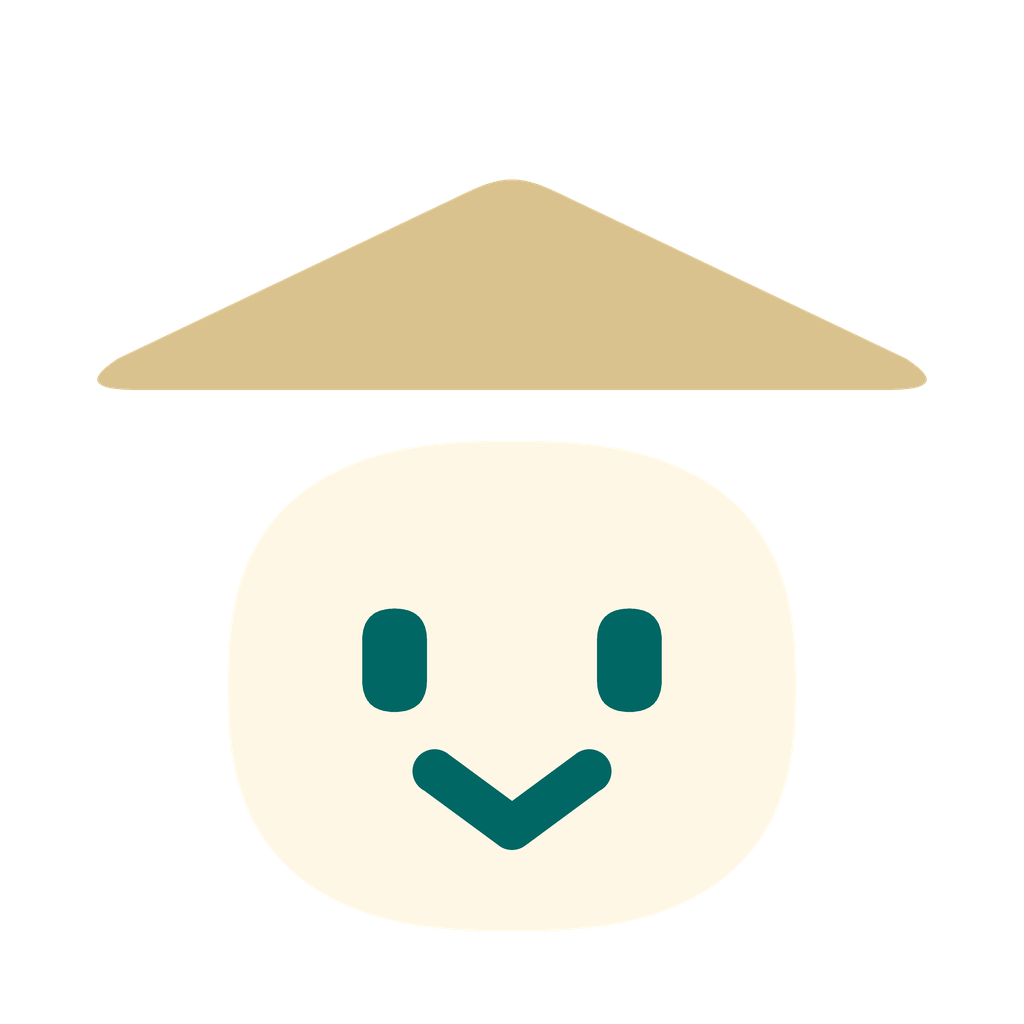
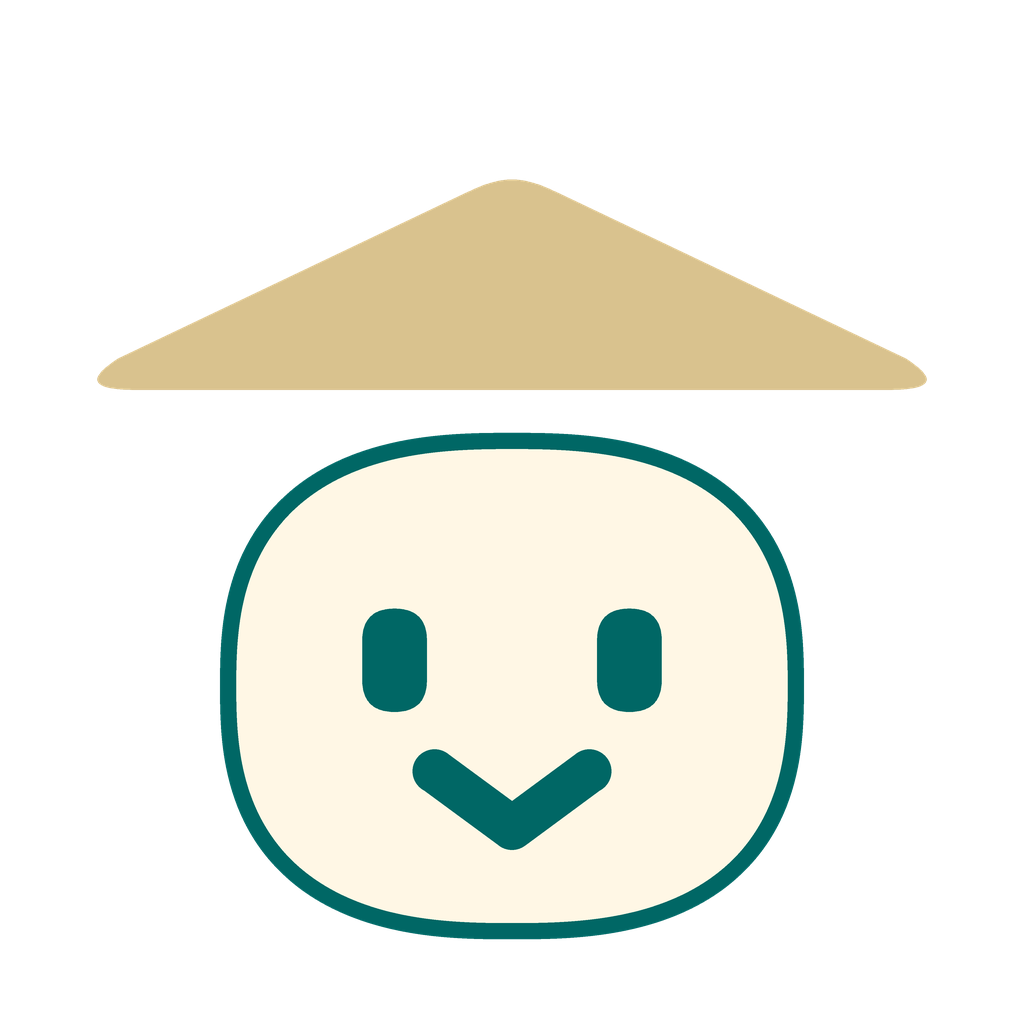
fix(branding): outline the cream face on light backgrounds
Cause: transparent cream face exports blend into white and the light feature-graphic background. Add a thin teal contour following the existing curved face only for those exports; preserve solid/adaptive launcher artwork, palette, hat and smile.

Regenerated the 90-file icon suite and publishing graphics/manifests. Visually checked the light-background mark; mask, alpha and export checks plus Android build/lint passed.

Changed region(s): [[0.1875, 0.4688, 0.8125, 0.9375], [0.3125, 0.4062, 0.6875, 0.4688]]

diff --git a/branding/minime/source/icon_art.py b/branding/minime/source/icon_art.py
@@ -67,8 +67,9 @@ def data(path):
     def num(v):return f'{v:.5f}'.rstrip('0').rstrip('.') or '0'
     return ' '.join(c[0]+' '.join(num(v) for v in c[1:]) for c in path)
 
-def svg_paths(mono=None):
+def svg_paths(mono=None,outline=False):
     g=geometry()
+    if outline:g[0]=(g[0][0],CREAM,TEAL,.75)
     if mono:
         holes=g[0][0]+g[2][0]+g[3][0]+smile_outline()
         return f'<path fill="{mono}" fill-rule="evenodd" d="{data(holes)}"/><path fill="{mono}" d="{data(g[1][0])}"/>'
@@ -78,7 +79,7 @@ def svg(background='rounded',mono=None,adaptive=False):
     viewport=108 if adaptive else 48
     content=''
     if background:content=f'<path fill="{TEAL}" d="{data(rounded(0,0,48,48,13) if background=="rounded" else rounded(0,0,48,48,0))}"/>'
-    content+=svg_paths(mono)
+    content+=svg_paths(mono,outline=not background and not adaptive)
     if adaptive:content=f'<g transform="translate(18 18) scale(1.5)">{content}</g>'
     return f'<svg xmlns="http://www.w3.org/2000/svg" width="{viewport}" height="{viewport}" viewBox="0 0 {viewport} {viewport}">{content}</svg>\n'
 
@@ -101,7 +102,9 @@ def render(size=512,background='rounded',mono=None,adaptive=False):
         for i,(path,fill,stroke,width) in enumerate(geometry()):draw_path(md,path,255 if i<2 else (0 if fill else None),0 if stroke else None,width,s,offset)
         ink=Image.new('RGBA',im.size,mono);im.alpha_composite(Image.composite(ink,Image.new('RGBA',im.size),mask))
     else:
-        for path,fill,stroke,width in geometry():draw_path(d,path,fill,stroke,width,s,offset)
+        g=geometry()
+        if not background and not adaptive:g[0]=(g[0][0],CREAM,TEAL,.75)
+        for path,fill,stroke,width in g:draw_path(d,path,fill,stroke,width,s,offset)
     return im.resize((size,size),Image.Resampling.LANCZOS)
 
 def vector(mono=False,adaptive=True):

diff --git a/tools/icon_art.py b/tools/icon_art.py
@@ -67,8 +67,9 @@ def data(path):
     def num(v):return f'{v:.5f}'.rstrip('0').rstrip('.') or '0'
     return ' '.join(c[0]+' '.join(num(v) for v in c[1:]) for c in path)
 
-def svg_paths(mono=None):
+def svg_paths(mono=None,outline=False):
     g=geometry()
+    if outline:g[0]=(g[0][0],CREAM,TEAL,.75)
     if mono:
         holes=g[0][0]+g[2][0]+g[3][0]+smile_outline()
         return f'<path fill="{mono}" fill-rule="evenodd" d="{data(holes)}"/><path fill="{mono}" d="{data(g[1][0])}"/>'
@@ -78,7 +79,7 @@ def svg(background='rounded',mono=None,adaptive=False):
     viewport=108 if adaptive else 48
     content=''
     if background:content=f'<path fill="{TEAL}" d="{data(rounded(0,0,48,48,13) if background=="rounded" else rounded(0,0,48,48,0))}"/>'
-    content+=svg_paths(mono)
+    content+=svg_paths(mono,outline=not background and not adaptive)
     if adaptive:content=f'<g transform="translate(18 18) scale(1.5)">{content}</g>'
     return f'<svg xmlns="http://www.w3.org/2000/svg" width="{viewport}" height="{viewport}" viewBox="0 0 {viewport} {viewport}">{content}</svg>\n'
 
@@ -101,7 +102,9 @@ def render(size=512,background='rounded',mono=None,adaptive=False):
         for i,(path,fill,stroke,width) in enumerate(geometry()):draw_path(md,path,255 if i<2 else (0 if fill else None),0 if stroke else None,width,s,offset)
         ink=Image.new('RGBA',im.size,mono);im.alpha_composite(Image.composite(ink,Image.new('RGBA',im.size),mask))
     else:
-        for path,fill,stroke,width in geometry():draw_path(d,path,fill,stroke,width,s,offset)
+        g=geometry()
+        if not background and not adaptive:g[0]=(g[0][0],CREAM,TEAL,.75)
+        for path,fill,stroke,width in g:draw_path(d,path,fill,stroke,width,s,offset)
     return im.resize((size,size),Image.Resampling.LANCZOS)
 
 def vector(mono=False,adaptive=True):

diff --git a/tools/build_store_materials.py b/tools/build_store_materials.py
@@ -23,7 +23,7 @@ for locale,tag in [('en-US','Your words. Your keyboard.'),('zh-TW','自己的話
  d.text((92,319),'中文 · English · 台語 · 日本語',font=font(24,cjk=True),fill=TEAL)
  svg=['<svg xmlns="http://www.w3.org/2000/svg" width="1024" height="500" viewBox="0 0 1024 500">',f'<rect width="1024" height="500" fill="{CREAM}"/>','<circle cx="1090" cy="50" r="190" fill="#d7e7df"/><circle cx="-10" cy="565" r="170" fill="#d7e7df"/>',f'<text x="88" y="190" font-family="Segoe UI" font-weight="700" font-size="76" fill="{TEAL}">MinIME</text>',f'<text x="92" y="265" font-family="Segoe UI,Microsoft JhengHei" font-size="30" fill="{INK}">{html.escape(tag)}</text>',f'<text x="92" y="347" font-family="Microsoft JhengHei" font-size="24" fill="{TEAL}">中文 · English · 台語 · 日本語</text>']
  mark=render_icon(310,None);im.paste(mark,(651,86),mark)
- svg.append('<g transform="translate(651 86) scale(6.4583333333)">'+svg_paths()+'</g>')
+ svg.append('<g transform="translate(651 86) scale(6.4583333333)">'+svg_paths(outline=True)+'</g>')
  im.save(G/('feature-'+locale+'.png'));(G/('feature-'+locale+'.svg')).write_text(''.join(svg)+'</svg>\n',encoding='utf-8')
 # Copy-ready listing fields, no Markdown headings or developer placeholders.
 source=(ROOT/'docs/play-publishing/STORE-LISTING.md').read_text(encoding='utf-8')

diff --git a/tools/build_icon_suite.py b/tools/build_icon_suite.py
@@ -116,7 +116,8 @@ README='''# MinIME icon suite
 
 Approved design: a Taiwan farmer's broad bamboo-leaf hat over a friendly face,
 inspired by 台. Deep teal #006765; warm cream #FFF7E5; bamboo leaf #D9C28E.
-The face has continuous curves and a rounded V smile. Artwork is original;
+The face has continuous curves and a rounded V smile. Transparent colour marks
+include a thin teal face contour for visibility on white and light surfaces. Artwork is original;
 no party, flag or third-party logo artwork is included.
 
 - `source/`: editable SVG masters and the Python geometry source (Pillow needed
@@ -146,7 +147,8 @@ monochrome marks are transparent cutouts, so they survive arbitrary tinting.
 The themed preview colours are examples, not fixed app colours.
 
 Keep proportions and the spacing between hat and face. The solid-background icon
-is preferred on busy backgrounds. Use the black/white cutout marks when one ink
+is preferred on busy backgrounds. Transparent colour marks have a teal contour;
+adaptive foregrounds omit it because their background is already teal. Use the black/white cutout marks when one ink
 is required. The bamboo-leaf colour is part of the design, not a material texture.
 
 Rebuild from the repository with `python tools/build_icon_suite.py` (Pillow,

diff --git a/branding/minime/README.md b/branding/minime/README.md
@@ -2,7 +2,8 @@
 
 Approved design: a Taiwan farmer's broad bamboo-leaf hat over a friendly face,
 inspired by 台. Deep teal #006765; warm cream #FFF7E5; bamboo leaf #D9C28E.
-The face has continuous curves and a rounded V smile. Artwork is original;
+The face has continuous curves and a rounded V smile. Transparent colour marks
+include a thin teal face contour for visibility on white and light surfaces. Artwork is original;
 no party, flag or third-party logo artwork is included.
 
 - `source/`: editable SVG masters and the Python geometry source (Pillow needed
@@ -32,7 +33,8 @@ monochrome marks are transparent cutouts, so they survive arbitrary tinting.
 The themed preview colours are examples, not fixed app colours.
 
 Keep proportions and the spacing between hat and face. The solid-background icon
-is preferred on busy backgrounds. Use the black/white cutout marks when one ink
+is preferred on busy backgrounds. Transparent colour marks have a teal contour;
+adaptive foregrounds omit it because their background is already teal. Use the black/white cutout marks when one ink
 is required. The bamboo-leaf colour is part of the design, not a material texture.
 
 Rebuild from the repository with `python tools/build_icon_suite.py` (Pillow,

diff --git a/branding/README.md b/branding/README.md
@@ -40,3 +40,12 @@ No phone operations occurred; SHINE retained its exclusive reservation. Physical
 launcher and themed-icon behaviour on OEM devices are not claimed as tested.
 Local logs: `artifacts/icon-suite/android-final.txt`, `final-verify.txt` and
 `verification.json`. This work does not clear unrelated Play-release gates.
+
+
+Contrast follow-up, September 11: the cream face blended into white/light surfaces
+in transparent colour exports and feature graphics. A 0.75/48-unit teal outline
+now follows the existing face path in those uses. Solid launcher images, adaptive
+layers, shape and palette are unchanged. Regenerated all 90 suite files and store
+manifests; inspected light-background previews. The generator's mask, alpha and
+export checks pass. Android build/lint passed (17 existing warnings). Updated ZIP
[1 lines of base64/hex data omitted]
